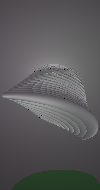
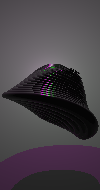
Update

diff --git a/src/edu/up/isgc/cg/raytracer/Raytracer.java b/src/edu/up/isgc/cg/raytracer/Raytracer.java
@@ -152,7 +152,7 @@ public class Raytracer {
                 PointLight pointLight_2 = new PointLight(new Vector3D(-3, 30, 20), Color.MAGENTA, 1);
                 PointLight pointLight_3 = new PointLight(new Vector3D(-0, 30, 15), Color.MAGENTA, 1);
                 PointLight pointLight_4 = new PointLight(new Vector3D(3, 30, 20), Color.GREEN, 1);
-                PointLight pointLight_5 = new PointLight(new Vector3D(0, 30, 25), Color.GREEN, 1);
+                PointLight pointLight_5 = new PointLight(new Vector3D(0, 20, 20), Color.GREEN, 1);
 
 
                     // ---- Objects ----
